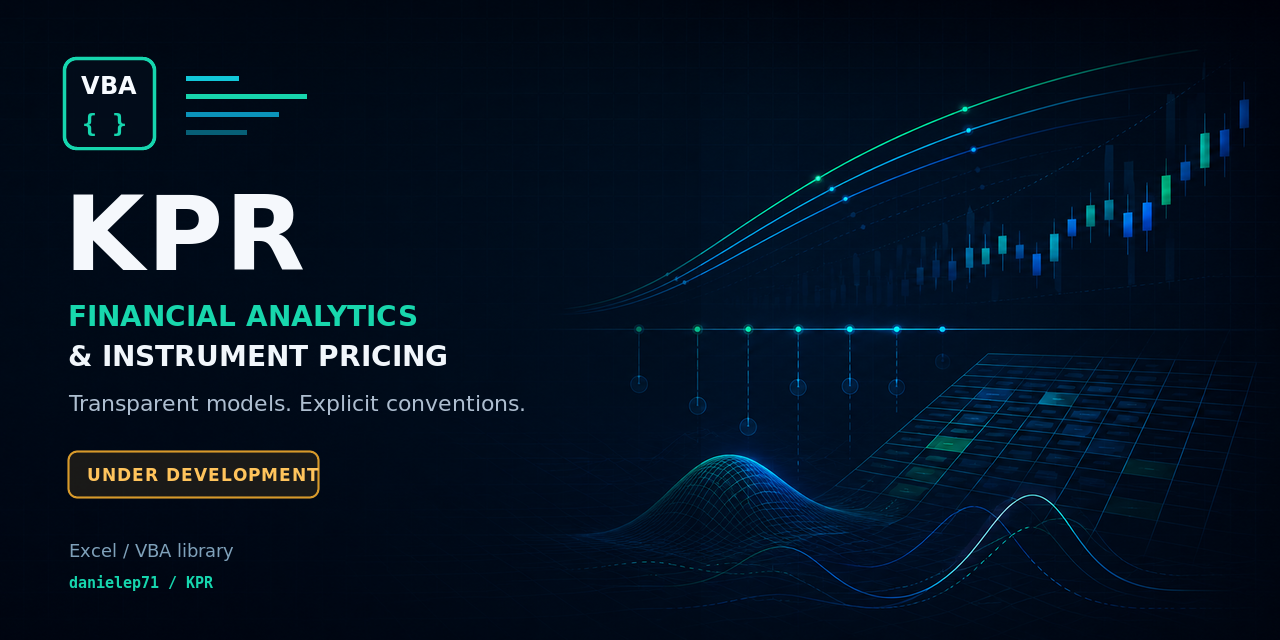
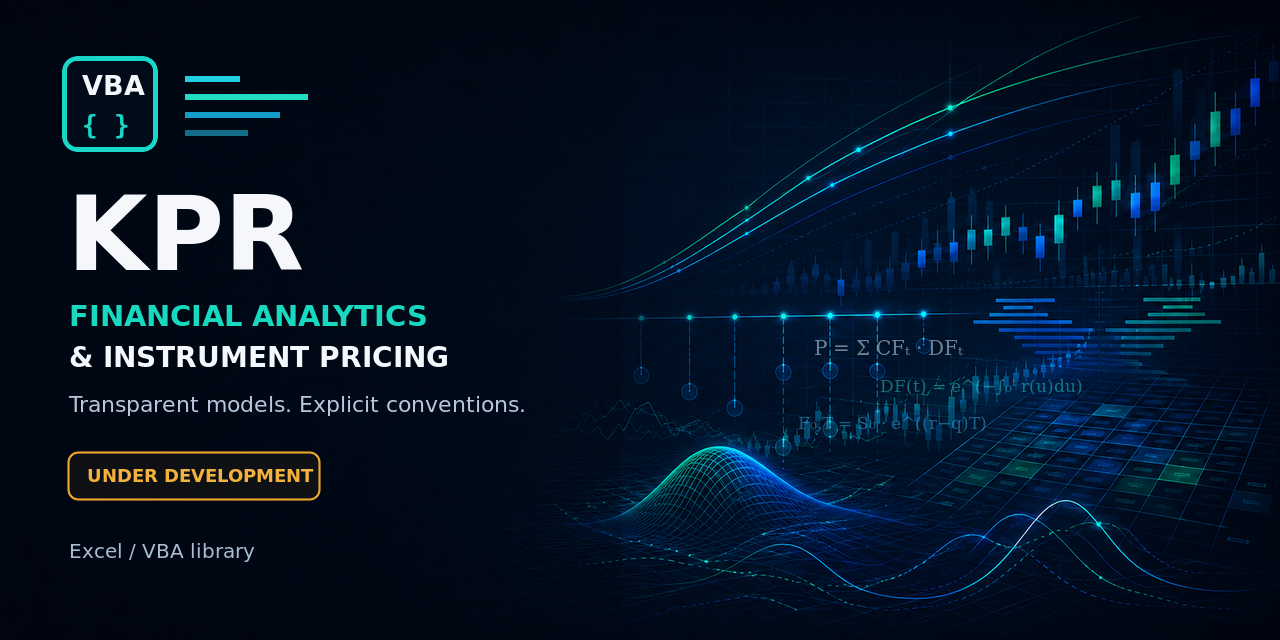
docs: refine KPR social preview

diff --git a/CHANGELOG.md b/CHANGELOG.md
@@ -7,7 +7,10 @@ and [Semantic Versioning](https://semver.org/) from its first published release.
 
 ## [Unreleased]
 
-No unreleased changes have been recorded yet.
+### Changed
+
+- Refined the KPR social preview by removing the maintainer footer and adding
+  clearer financial-market imagery and pricing formulas.
 
 ## [0.0.1] - 2026-08-29
 
